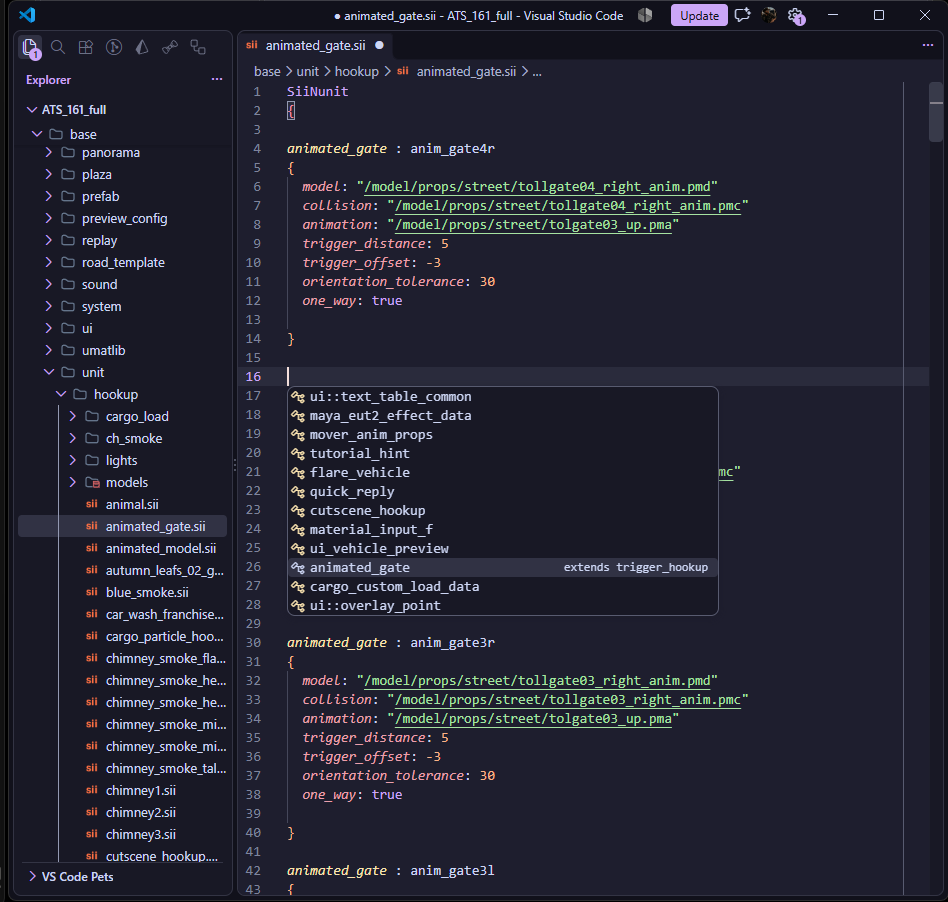
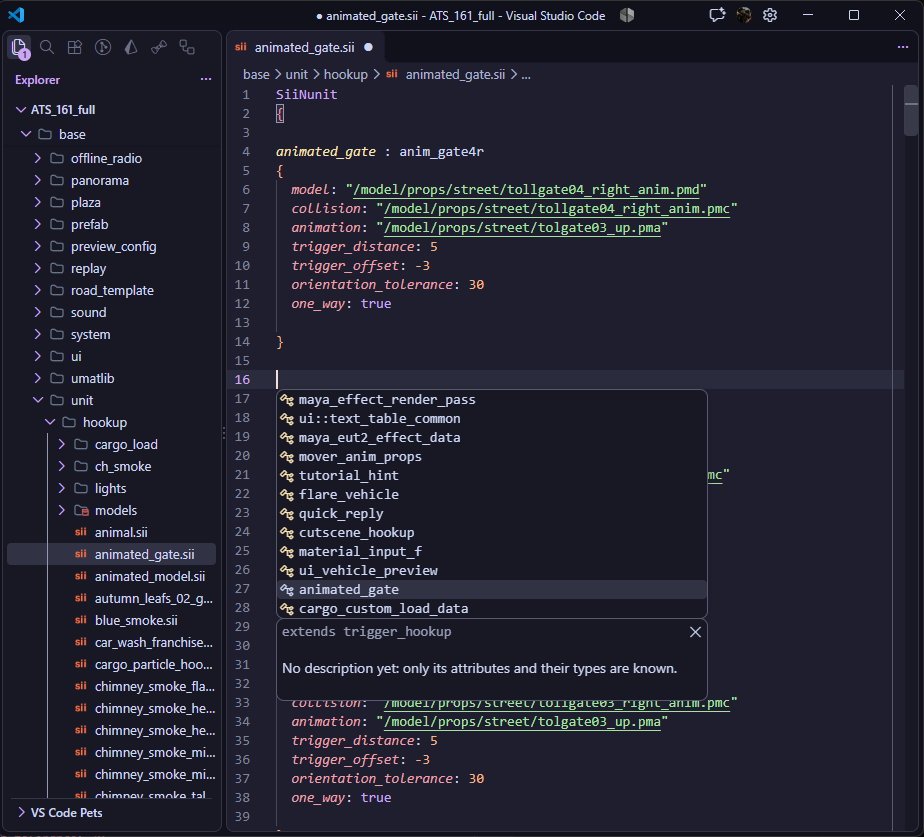
docs(web): link previews and links to the live docs site
The docs are live at scs-intellisense.vercel.app. metadataBase gives share images a full URL, and Open Graph/Twitter cards show the logo when the link is posted. The Maretplace homepage and both READMEs now point to the docs instead of the repository.

diff --git a/apps/web/rdx.config.ts b/apps/web/rdx.config.ts
@@ -10,7 +10,8 @@ export default defineConfig({
     applicationName: 'SCS IntelliSense',
     // Footer starting year. Change it to an earlier founding year if needed.
     since: 2026,
-    // Set metadataBase to your public site URL to resolve relative share images.
+    // The public site URL: relative share images resolve against it.
+    metadataBase: 'https://scs-intellisense.vercel.app',
     keywords: [
       'SCS IntelliSense',
       'American Truck Simulator',
@@ -38,6 +39,23 @@ export default defineConfig({
     },
     // The web app manifest (name and icons when installed); RDX does not create it.
     manifest: '/site.webmanifest',
+    // Link previews (Discord, forums): the logo, square, so a small card.
+    openGraph: {
+      type: 'website',
+      siteName: 'SCS IntelliSense',
+      images: [
+        {
+          url: '/images/icons/web-app-manifest-512x512.png',
+          width: 512,
+          height: 512,
+          alt: 'SCS IntelliSense logo',
+        },
+      ],
+    },
+    twitter: {
+      card: 'summary',
+      images: ['/images/icons/web-app-manifest-512x512.png'],
+    },
   },
   // Floating heading navigation; shown only on pages with enough sections.
   TOC: true,

diff --git a/README.md b/README.md
@@ -7,7 +7,8 @@
 <div align="center">
   <a href="./LICENSE.md"><img src="https://img.shields.io/badge/license-MIT-FF6A00?style=for-the-badge" alt="MIT License" /></a>
   <a href="https://marketplace.visualstudio.com/items?itemName=DuHNunes.scs-intellisense"><img src="https://img.shields.io/github/v/release/duhnunes/scs-intellisense?display_name=tag&style=for-the-badge" alt="Latest release" /></a>
-  <img src="https://img.shields.io/badge/status-beta-FF6A00?style=for-the-badge" alt="MIT License" />
+  <a href="https://scs-intellisense.vercel.app/docs"><img src="https://img.shields.io/badge/docs-scs--intellisense-FF6A00?style=for-the-badge" alt="Documentation" /></a>
+  <img src="https://img.shields.io/badge/status-beta-FF6A00?style=for-the-badge" alt="Status: beta" />
 </div>
 
 > **Unofficial community project.** SCS IntelliSense is not affiliated with or endorsed by SCS Software. Euro Truck Simulator 2, American Truck Simulator and SCS Software are trademarks of their respective owners.
@@ -38,7 +39,7 @@ Experimental (off by default):
 - 🖱 **Hover** with descriptions of classes and attributes.
 - ✨ **Formatter**: Format Document and Format Selection, plus **Check Formatting of All Files** and **Format All Files** for the whole workspace.
 
-To turn experimental features on, open the Settings (`Ctrl+,`), search for `@ext:DuHNunes.scs-intellisense`, and check the ones you want. They take effect right away. See the [Marketplace page](https://marketplace.visualstudio.com/items?itemName=DuHNunes.scs-intellisense) for every setting and command.
+To turn experimental features on, open the Settings (`Ctrl+,`), search for `@ext:DuHNunes.scs-intellisense`, and check the ones you want. They take effect right away. See the [documentation](https://scs-intellisense.vercel.app/docs) for how to use every feature, every setting and every command.
 
 ## Tested against the game
 
